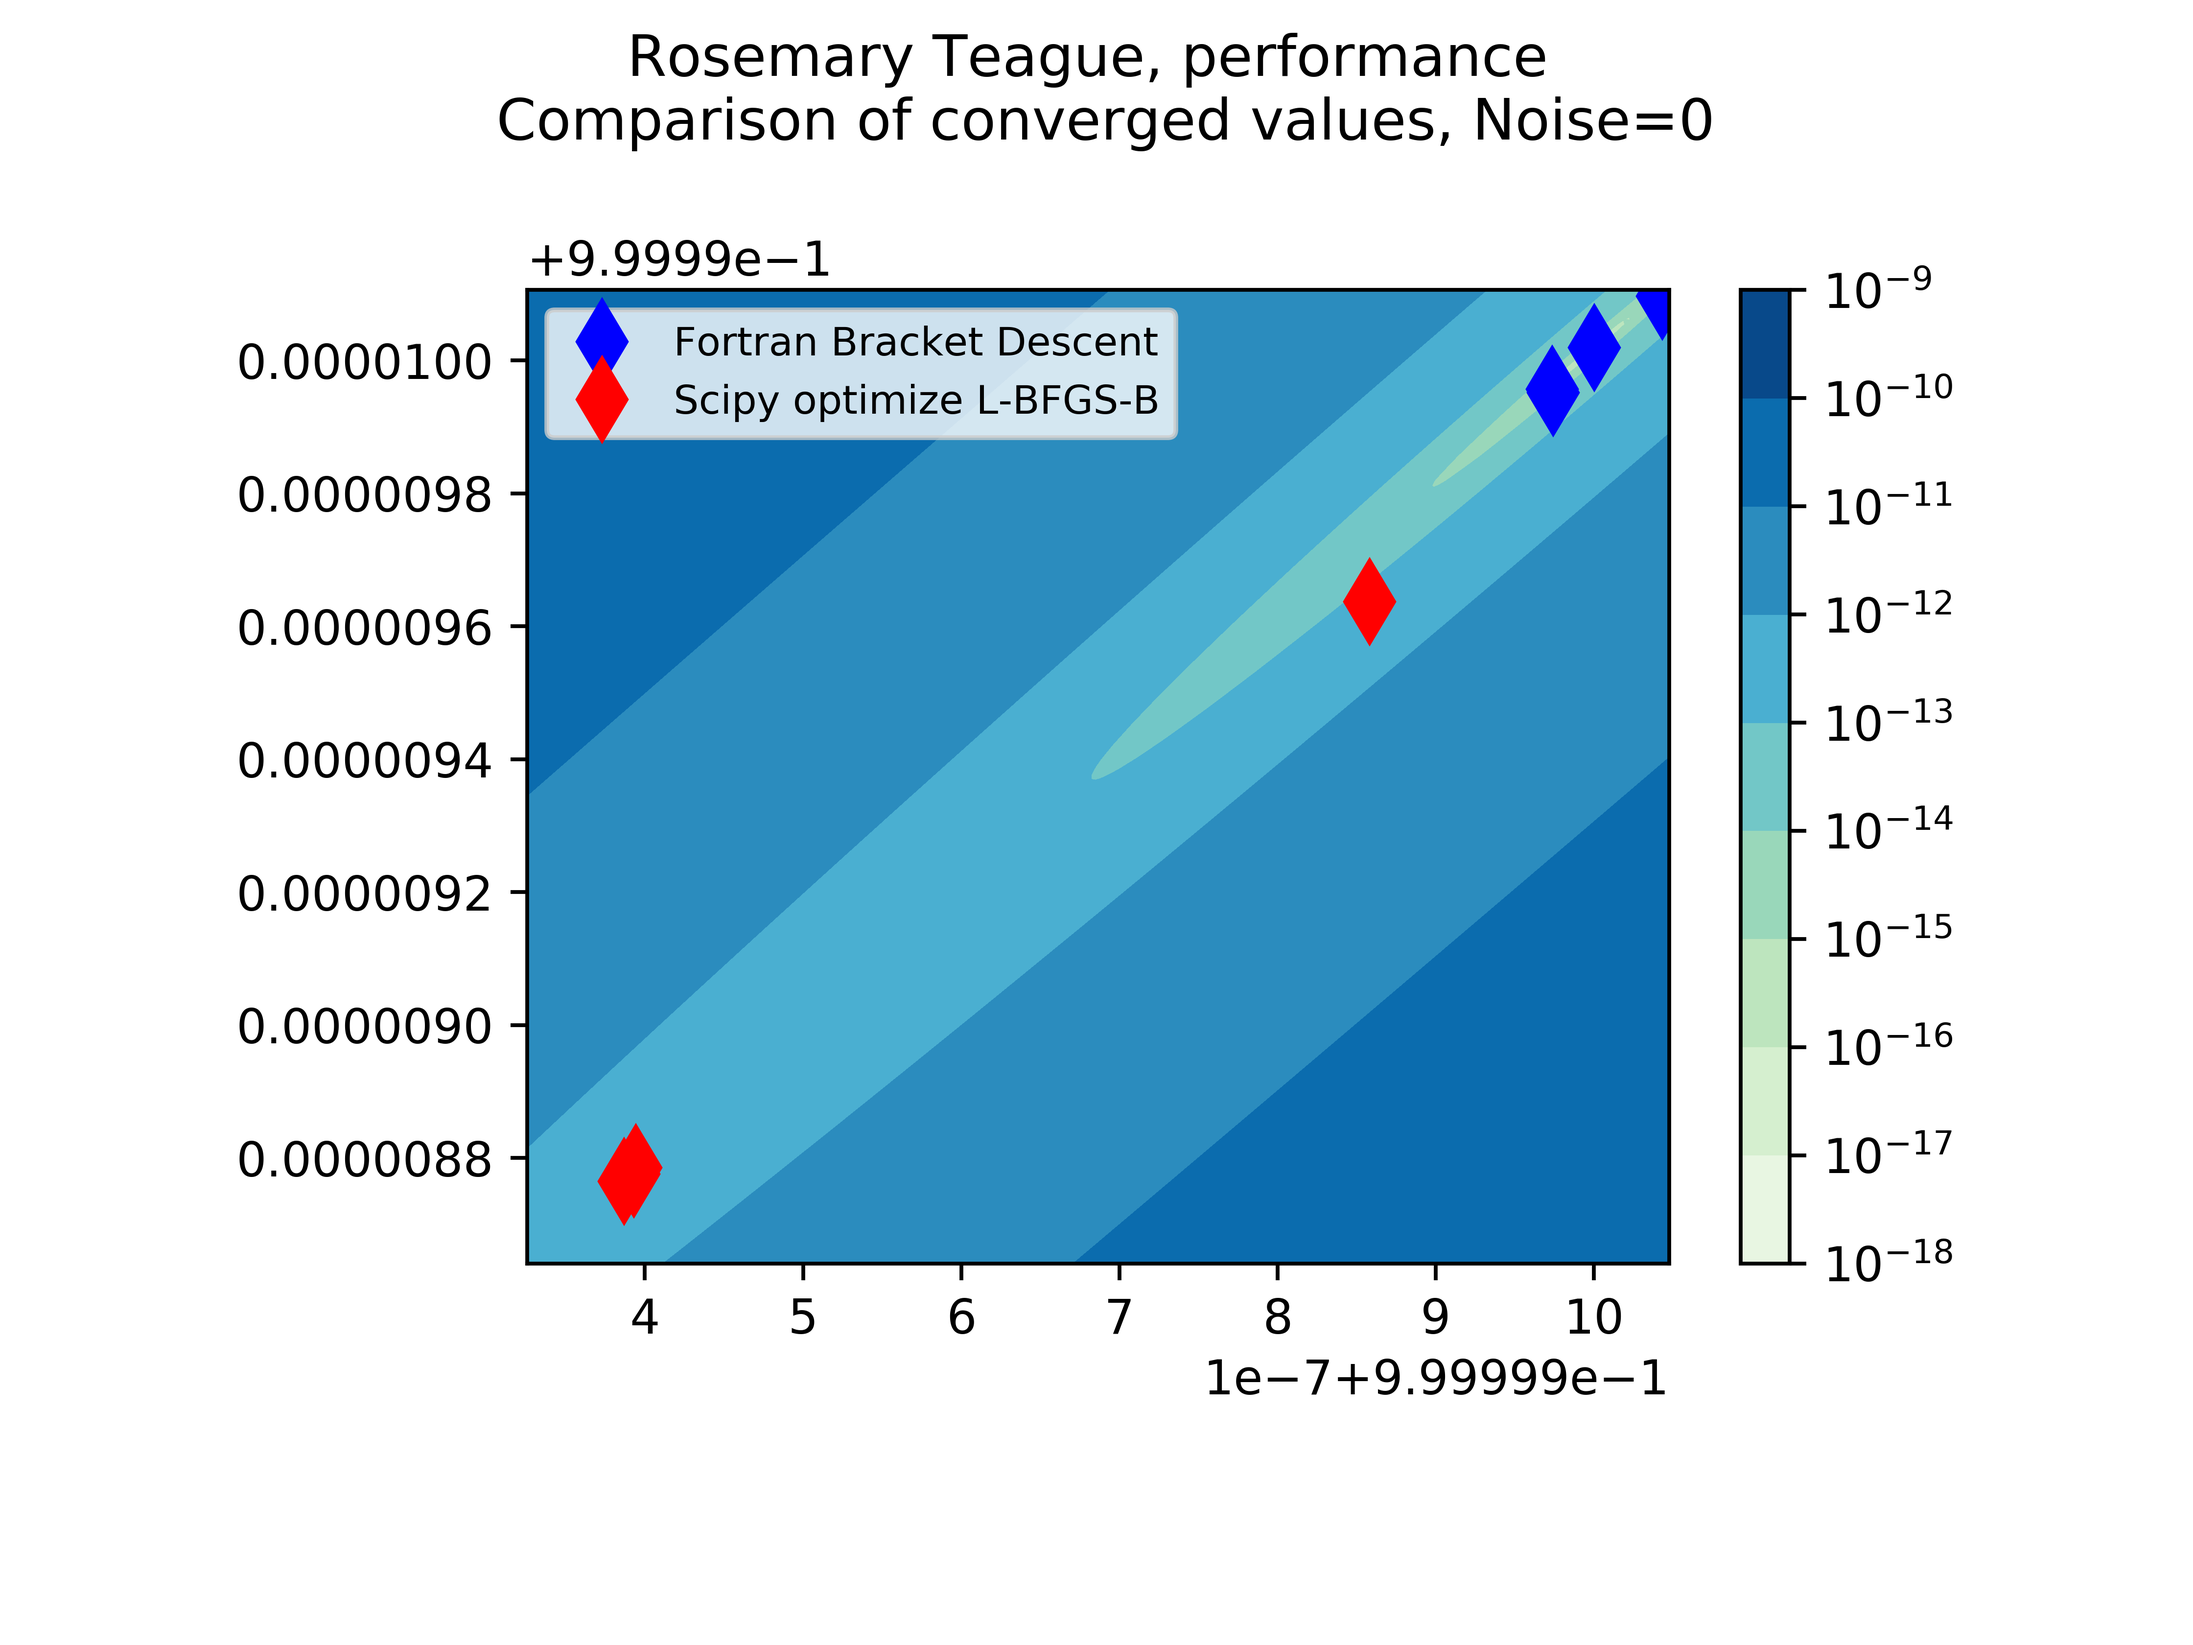
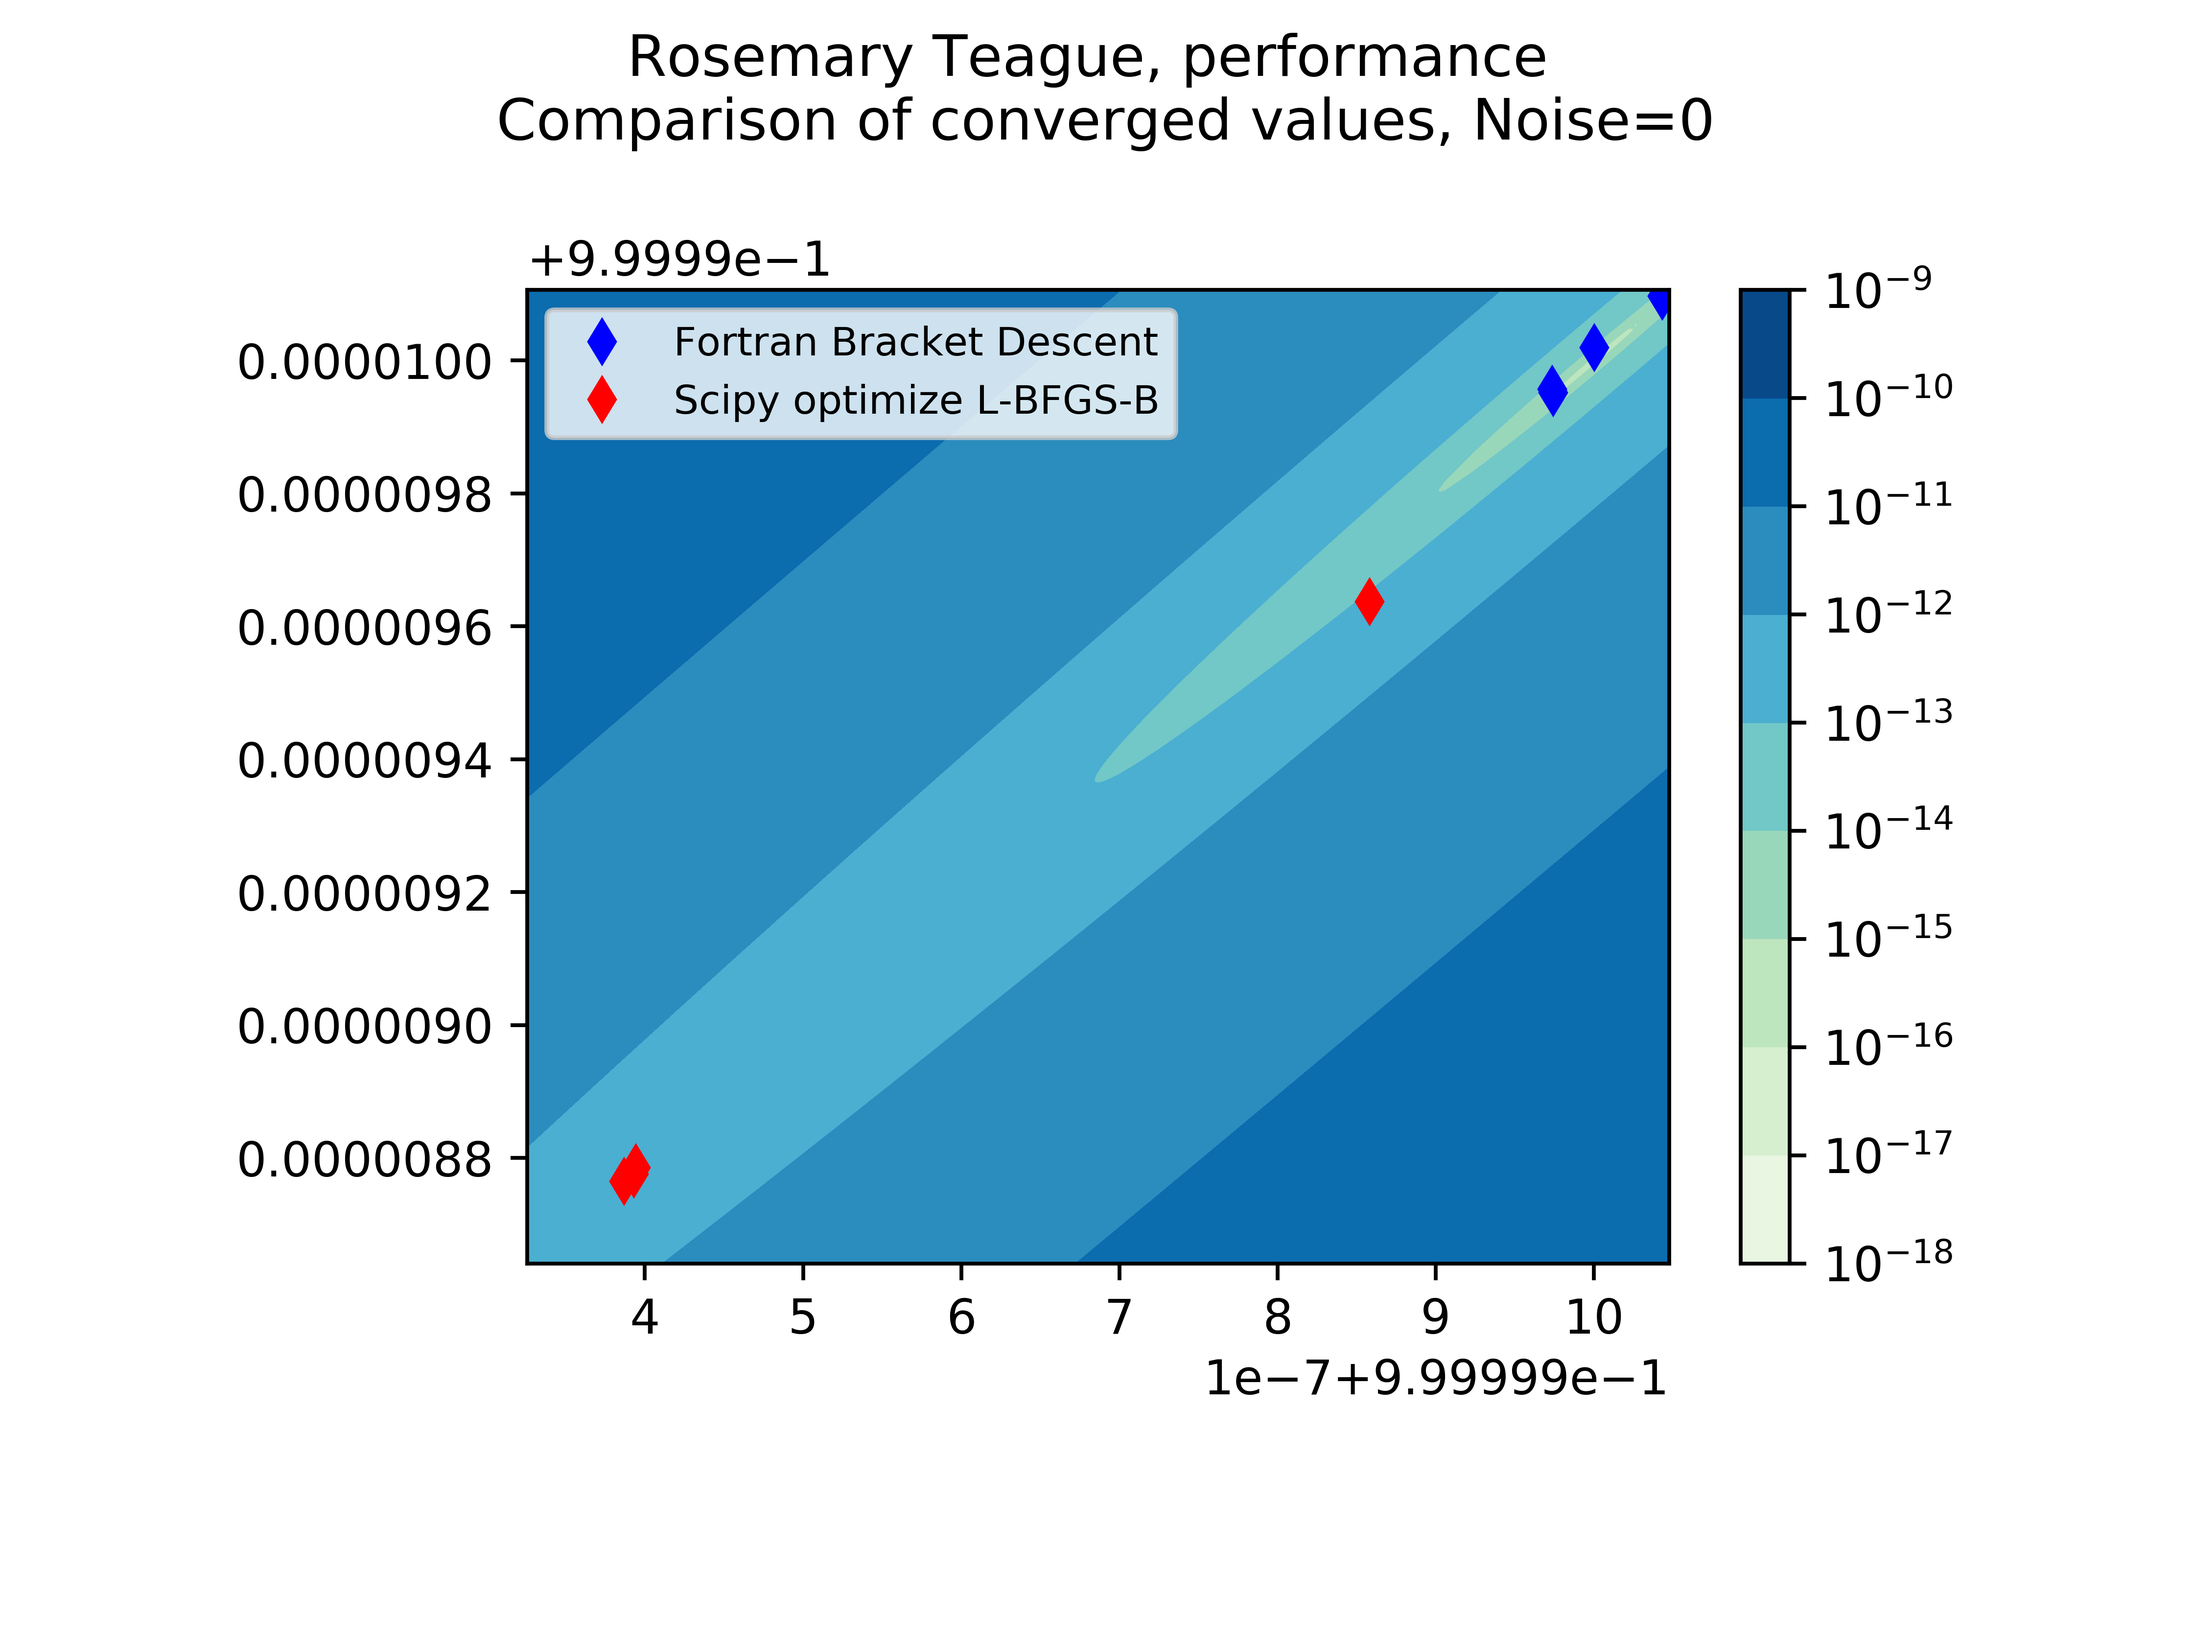
All graphs now replotted for correct orientation of cost function

diff --git a/hw2_template_dev.py b/hw2_template_dev.py
@@ -71,18 +71,20 @@ def newton_test(xg,display=False,i=1):
         Maxy=max(Y)+1
         [Xj,Yj]=np.linspace(Minx,Maxx,200),np.linspace(Miny,Maxy,200)
         #calculate noiseless cost function at each point on 2D grid
-        j=[[cost.costj([xi,yi]) for yi in Yj] for xi in Xj]
+        j=[[cost.costj([xi,yi]) for xi in Xj] for yi in Yj]
 
         f, (p1,p2) = plt.subplots(1,2)
-        p1.contourf(Yj, Xj, j, locator=ticker.LogLocator(), cmap=cm.GnBu)
+        p1.contourf(Xj, Yj, j, locator=ticker.LogLocator(), cmap=cm.GnBu)
         p1.plot(X,Y,'g',marker='d')
         p1.set_xlim(min(X)-1,max(X)+1)
         p1.set_xlabel('X1-location')
         p1.set_ylabel('X2-location')
+        p1.set_title('Convergence Path')
         p2.plot(np.linspace(0,len(X)-1,len(X)),np.sqrt((X-xf[0])**2+(Y-xf[1])**2))
         p2.set_xlabel('Iteration number')
         p2.set_ylabel('distance from converged minimum')
-        plt.suptitle('Rosemary Teague, Newton_test, initial guess ='+str(xg)+' \n Rate of convergence of a cost function')
+        p2.set_title('Rate')
+        plt.suptitle('Rosemary Teague, Newton_test, initial guess ='+str(xg)+' \n Convergence of a cost function')
         plt.tight_layout(pad=4)
         plt.savefig('hw22'+str(i), dpi=700)
 
@@ -92,7 +94,7 @@ def newton_test(xg,display=False,i=1):
     return xf,jf,output
 
 
-def bracket_descent_test(xg,display=False,i=1):
+def bracket_descent_test(xg,display=False,compare=False,i=1):
     """ Use bracket-descent to minimize cost function defined in cost module
     Input variable xg is initial guess for location of minimum. When display
     is true, 1-2 figures comparing the B-D and Newton steps should be generated
@@ -102,29 +104,57 @@ def bracket_descent_test(xg,display=False,i=1):
     cost.c_noise=False
     hw2.tol=10**(-6)
     hw2.itermax=1000
+    t1=0;t2=0;t3=0;t4=0
+    t1 = time()
     hw2.bracket_descent(xg)
+    t2 = time()
     X,Y=hw2.xpath
     xf=[X[-1],Y[-1]]
     jf=hw2.jpath[-1]
+    d1=np.sqrt((X-xf[0])**2+(Y-xf[1])**2)
 
 
     if display:
+        Minx=min(X)-1
+        Maxx=max(X)+1
+        Miny=min(Y)-1
+        Maxy=max(Y)+1
+        [Xj,Yj]=np.linspace(Minx,Maxx,200),np.linspace(Miny,Maxy,200)
+        #calculate noiseless cost function at each point on 2D grid
+        j=[[cost.costj([xi,yi]) for xi in Xj] for yi in Yj]
         f, (p1,p2) = plt.subplots(1,2)
-        p1.plot(X,Y)
+        p1.contourf(Xj, Yj, j, locator=ticker.LogLocator(), cmap=cm.GnBu)
+        p1.plot(X,Y,'g',marker='d')
         p1.set_xlabel('X1-location')
         p1.set_ylabel('X2-location')
-        p2.plot(np.linspace(0,len(X)-1,len(X)),np.sqrt((X-xf[0])**2+(Y-xf[1])**2))
+        p1.set_title('Convergence Path')
+        p2.plot(np.linspace(0,len(X)-1,len(X)),d1)
         p2.set_xlabel('Iteration number')
         p2.set_ylabel('distance from converged minimum')
+        p2.set_title('Rate')
         plt.suptitle('Rosemary Teague, bracket_descent_test, initial guess ='+str(xg)+' \n Rate of convergence of a cost function')
         plt.tight_layout(pad=4)
-        plt.savefig('hw23'+str(i), dpi=700)
+        plt.savefig('hw231_'+str(i), dpi=700)
 
-
-
+    if compare:
+        plt.close('all')
+        t3= time()
+        xf2,jf2,i2=hw2.newton(xg)
+        t4 = time()
+        X2,Y2=hw2.xpath
+        d2=np.sqrt((X2-xf2[0])**2+(Y2-xf2[1])**2)
+        One,=plt.loglog(np.linspace(0,len(X)-1,len(X)),d1)
+        Two,=plt.loglog(np.linspace(0,len(X2)-1,len(X2)),d2)
+        One.set_label('Bracket Descent')
+        Two.set_label('Newton')
+        plt.xlabel('Iteration number')
+        plt.ylabel('Distance from converged minimum')
+        plt.legend()
+        plt.title('Rosemary Teague, bracket_descent_test, initial guess ='+str(xg)+' \n Comparison of Newton and Bracket Descent Methods')
+        plt.savefig('hw232_'+str(i), dpi=700)
 
     jf=cost.costj(xf)
-    return xf,jf
+    return xf,jf,t2-t1,t4-t3
 
 
 def performance():
@@ -179,13 +209,13 @@ def performance():
         Maxy=1+(max([max(xfbdy[(count-1)*4:count*4]),max(lbfgsy[(count-1)*4:count*4])])-1)*1.1
         [X,Y]=np.linspace(Minx,Maxx,200),np.linspace(Miny,Maxy,200)
         #calculate noiseless cost function at each point on 2D grid
-        j=[[cost.costj([xi,yi]) for yi in Y] for xi in X]
+        j=[[cost.costj([xi,yi]) for xi in X] for yi in Y]
         #create contour plots of cost functions with and without noise
         fig, p4 = plt.subplots()
         cp = p4.contourf(X, Y, j, locator=ticker.LogLocator(), cmap=cm.GnBu)
         cbar = fig.colorbar(cp)
-        BD,=p4.plot(xfbdx[(count-1)*4:count*4],xfbdy[(count-1)*4:count*4],'b',linestyle='None',marker='d',markersize=12)
-        Scipy,=p4.plot(lbfgsx[(count-1)*4:count*4],lbfgsy[(count-1)*4:count*4],'r',linestyle='None',marker='d',markersize=12)
+        BD,=p4.plot(xfbdx[(count-1)*4:count*4],xfbdy[(count-1)*4:count*4],'b',linestyle='None',marker='d',markersize=6)
+        Scipy,=p4.plot(lbfgsx[(count-1)*4:count*4],lbfgsy[(count-1)*4:count*4],'r',linestyle='None',marker='d',markersize=6)
         BD.set_label('Fortran Bracket Descent')
         Scipy.set_label('Scipy optimize L-BFGS-B')
         plt.legend(loc='upper left', fontsize='small')
@@ -248,8 +278,8 @@ if __name__ == '__main__':
     newton_test([5.,5.],display=True,i=2)
     newton_test([2.,2.],display=True,i=3)
 
-    bracket_descent_test([10.,10.],display=True,i=1)
-    bracket_descent_test([5.,5.],display=True,i=2)
-    bracket_descent_test([2.,2.],display=True,i=3)
+    bracket_descent_test([10.,10.],display=True,compare=True,i=1)
+    bracket_descent_test([5.,5.],display=True,compare=True,i=2)
+    bracket_descent_test([2.,2.],display=True,compare=True,i=3)
 
     performance()
